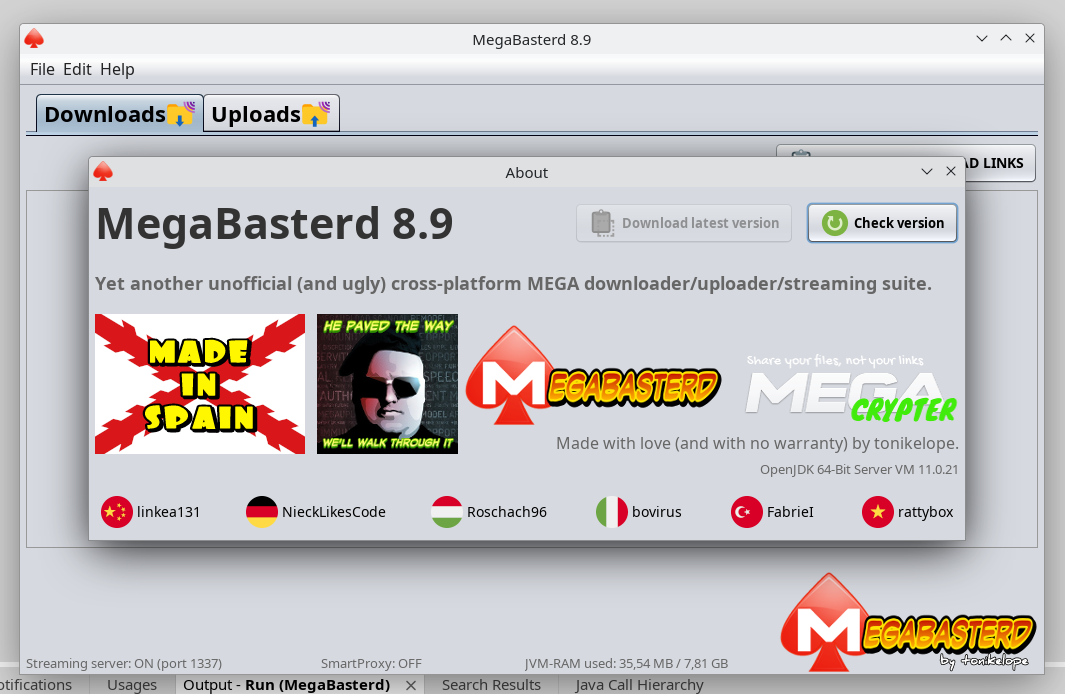
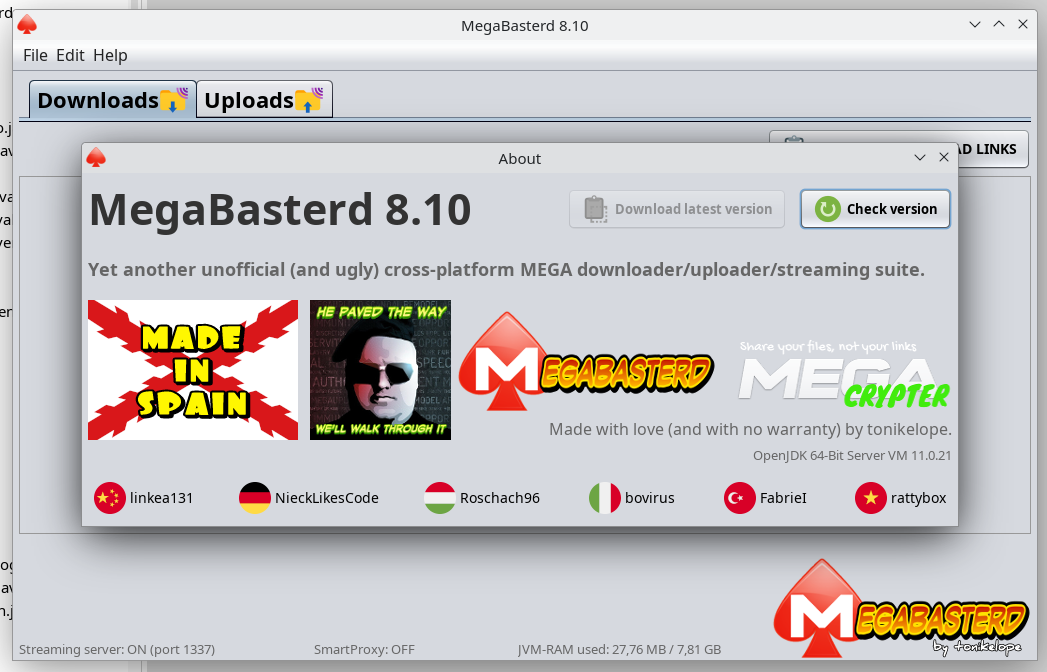
8.10
Fix pre+pro transfers progress bar
Max wait transfers 1000 -> 10000
Pro workers -> 100

Changed region(s): [[0.0, 0.0, 1.0, 1.0]]

diff --git a/src/main/java/com/tonikelope/megabasterd/MainPanelView.java b/src/main/java/com/tonikelope/megabasterd/MainPanelView.java
@@ -221,17 +221,18 @@ public final class MainPanelView extends javax.swing.JFrame {
 
             if (dialog.isUpload() && dialog.getFiles().size() > 0) {
 
-                MiscTools.GUIRun(() -> {
-                    upload_status_bar.setIndeterminate(true);
-                    upload_status_bar.setMaximum(getMain_panel().getUpload_manager().getTransference_preprocess_global_queue().size() + dialog.getFiles().size());
-                    upload_status_bar.setVisible(true);
-                });
-
                 getMain_panel().resumeUploads();
 
                 getMain_panel().getUpload_manager().getTransference_preprocess_global_queue().addAll(dialog.getFiles());
 
                 getMain_panel().getUpload_manager().secureNotify();
+
+                MiscTools.GUIRun(() -> {
+                    upload_status_bar.setIndeterminate(true);
+                    upload_status_bar.setValue(upload_status_bar.getMinimum());
+                    upload_status_bar.setMaximum(getMain_panel().getUpload_manager().getTransference_preprocess_global_queue().size() + getMain_panel().getUpload_manager().getTransference_preprocess_queue().size() + getMain_panel().getUpload_manager().getTransference_provision_queue().size());
+                    upload_status_bar.setVisible(true);
+                });
 
                 final String mega_account = (String) dialog.getAccount_combobox().getSelectedItem();
 
@@ -376,24 +377,11 @@ public final class MainPanelView extends javax.swing.JFrame {
 
                                 LOG.log(SEVERE, null, ex);
                             }
-
-                            MiscTools.GUIRun(() -> {
-                                upload_status_bar.setIndeterminate(false);
-                                upload_status_bar.setValue(upload_status_bar.getValue() + 1);
-                            });
-
                         }
 
                     } catch (Exception ex) {
 
                         LOG.log(SEVERE, null, ex);
-                    }
-
-                    if (getMain_panel().getUpload_manager().getTransference_preprocess_queue().isEmpty()) {
-                        MiscTools.GUIRun(() -> {
-                            upload_status_bar.setValue(upload_status_bar.getMinimum());
-                            upload_status_bar.setVisible(false);
-                        });
                     }
                 };
 
@@ -1100,17 +1088,19 @@ public final class MainPanelView extends javax.swing.JFrame {
                 });
 
                 if (!urls.isEmpty()) {
-                    MiscTools.GUIRun(() -> {
-                        download_status_bar.setIndeterminate(true);
-                        download_status_bar.setMaximum(getMain_panel().getDownload_manager().getTransference_preprocess_global_queue().size() + urls.size());
-                        download_status_bar.setVisible(true);
-                    });
 
                     Set<String> folder_file_links = new HashSet(findAllRegex("(?:https?|mega)://[^\r\n]+#F\\*[^\r\n!]*?![^\r\n!]+![^\\?\r\n/]+", link_data, 0));
 
                     getMain_panel().getDownload_manager().getTransference_preprocess_global_queue().addAll(folder_file_links);
 
                     getMain_panel().getDownload_manager().secureNotify();
+
+                    MiscTools.GUIRun(() -> {
+                        download_status_bar.setIndeterminate(true);
+                        download_status_bar.setValue(download_status_bar.getMinimum());
+                        download_status_bar.setMaximum(getMain_panel().getDownload_manager().getTransference_preprocess_global_queue().size() + getMain_panel().getDownload_manager().getTransference_preprocess_queue().size() + getMain_panel().getDownload_manager().getTransference_provision_queue().size());
+                        download_status_bar.setVisible(true);
+                    });
 
                     if (!folder_file_links.isEmpty()) {
                         ArrayList<String> nlinks = ma.GENERATE_N_LINKS(folder_file_links);
@@ -1244,19 +1234,8 @@ public final class MainPanelView extends javax.swing.JFrame {
                             Logger.getLogger(MainPanelView.class.getName()).log(Level.SEVERE, ex.getMessage());
                         }
 
-                        MiscTools.GUIRun(() -> {
-                            download_status_bar.setIndeterminate(false);
-                            download_status_bar.setValue(upload_status_bar.getValue() + 1);
-                        });
-
                     }
 
-                    if (getMain_panel().getDownload_manager().getTransference_preprocess_global_queue().isEmpty()) {
-                        MiscTools.GUIRun(() -> {
-                            download_status_bar.setValue(download_status_bar.getMinimum());
-                            download_status_bar.setVisible(false);
-                        });
-                    }
                 } else {
                     MiscTools.GUIRun(() -> {
                         new_download_menu.setEnabled(true);

diff --git a/src/main/java/com/tonikelope/megabasterd/TransferenceManager.java b/src/main/java/com/tonikelope/megabasterd/TransferenceManager.java
@@ -30,8 +30,8 @@ import javax.swing.JPanel;
  */
 abstract public class TransferenceManager implements Runnable, SecureSingleThreadNotifiable {
 
-    public static final int MAX_WAIT_QUEUE = 1000;
-    public static final int MAX_PROVISION_WORKERS = 25;
+    public static final int MAX_WAIT_QUEUE = 10000;
+    public static final int MAX_PROVISION_WORKERS = 50;
     private static final Logger LOG = Logger.getLogger(TransferenceManager.class.getName());
 
     protected final ConcurrentLinkedQueue<Object> _transference_preprocess_global_queue;
@@ -680,24 +680,6 @@ abstract public class TransferenceManager implements Runnable, SecureSingleThrea
 
             _status.setText(_genStatus());
 
-            /*if (_transference_preprocess_queue.isEmpty() && !_transference_provision_queue.isEmpty()) {
-
-                if (this instanceof DownloadManager) {
-                    this._main_panel.getView().getDownload_status_bar().setIndeterminate(true);
-                    this._main_panel.getView().getDownload_status_bar().setVisible(true);
-                } else {
-                    this._main_panel.getView().getUpload_status_bar().setIndeterminate(true);
-                    this._main_panel.getView().getUpload_status_bar().setVisible(true);
-                }
-            } else if (_transference_preprocess_queue.isEmpty()) {
-                if (this instanceof DownloadManager) {
-                    this._main_panel.getView().getDownload_status_bar().setIndeterminate(false);
-                    this._main_panel.getView().getDownload_status_bar().setVisible(false);
-                } else {
-                    this._main_panel.getView().getUpload_status_bar().setIndeterminate(false);
-                    this._main_panel.getView().getUpload_status_bar().setVisible(false);
-                }
-            }*/
             _main_panel.getView().getUnfreeze_transferences_button().setVisible(_main_panel.getDownload_manager().hasFrozenTransferences() || _main_panel.getUpload_manager().hasFrozenTransferences());
 
             _main_panel.getView().revalidate();
@@ -832,6 +814,24 @@ abstract public class TransferenceManager implements Runnable, SecureSingleThrea
                                     try {
                                         bounded_executor.submitTask(() -> {
                                             provision(transference);
+
+                                            if (this instanceof DownloadManager) {
+                                                MiscTools.GUIRun(() -> {
+
+                                                    _main_panel.getView().getDownload_status_bar().setIndeterminate(false);
+                                                    _main_panel.getView().getDownload_status_bar().setValue(_main_panel.getView().getDownload_status_bar().getValue() + 1);
+                                                    _main_panel.getView().getDownload_status_bar().setVisible((_main_panel.getView().getDownload_status_bar().getValue() < _main_panel.getView().getDownload_status_bar().getMaximum()));
+
+                                                });
+                                            } else {
+                                                MiscTools.GUIRun(() -> {
+
+                                                    _main_panel.getView().getUpload_status_bar().setIndeterminate(false);
+                                                    _main_panel.getView().getUpload_status_bar().setValue(_main_panel.getView().getUpload_status_bar().getValue() + 1);
+                                                    _main_panel.getView().getUpload_status_bar().setVisible((_main_panel.getView().getUpload_status_bar().getValue() < _main_panel.getView().getUpload_status_bar().getMaximum()));
+
+                                                });
+                                            }
                                         });
                                     } catch (InterruptedException ex) {
                                         Logger.getLogger(TransferenceManager.class.getName()).log(Level.SEVERE, null, ex);

diff --git a/src/main/java/com/tonikelope/megabasterd/MainPanel.java b/src/main/java/com/tonikelope/megabasterd/MainPanel.java
@@ -70,7 +70,7 @@ import javax.swing.UIManager;
  */
 public final class MainPanel {
 
-    public static final String VERSION = "8.9";
+    public static final String VERSION = "8.10";
     public static final boolean FORCE_SMART_PROXY = false; //TRUE FOR DEBUGING SMART PROXY
     public static final int THROTTLE_SLICE_SIZE = 16 * 1024;
     public static final int DEFAULT_BYTE_BUFFER_SIZE = 16 * 1024;
